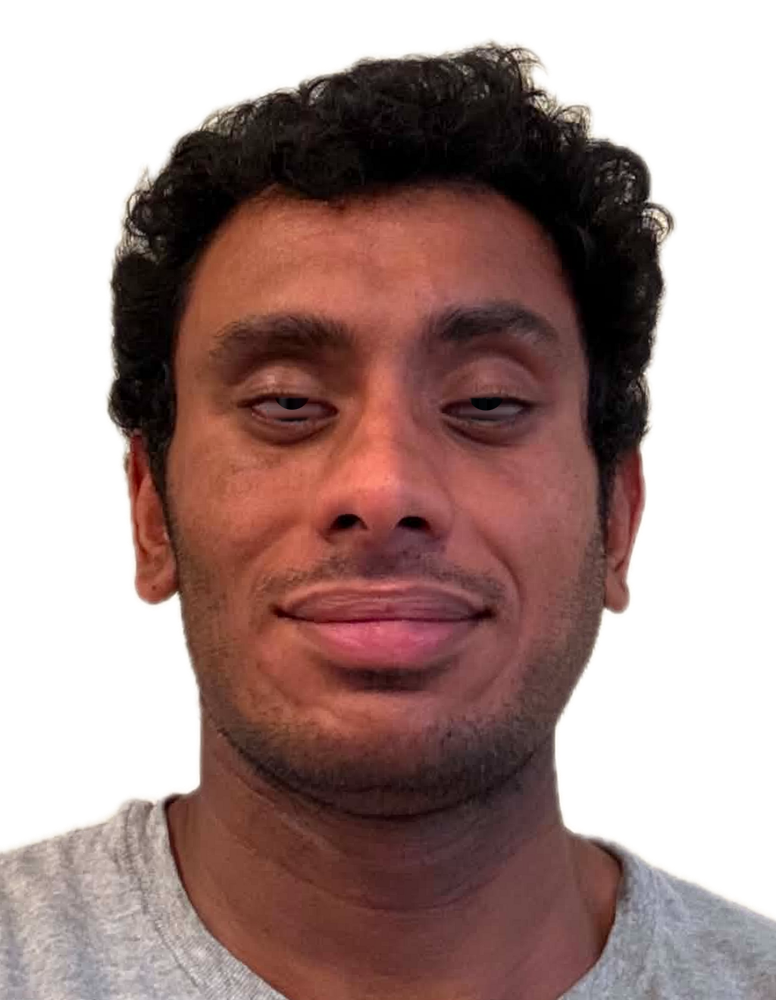
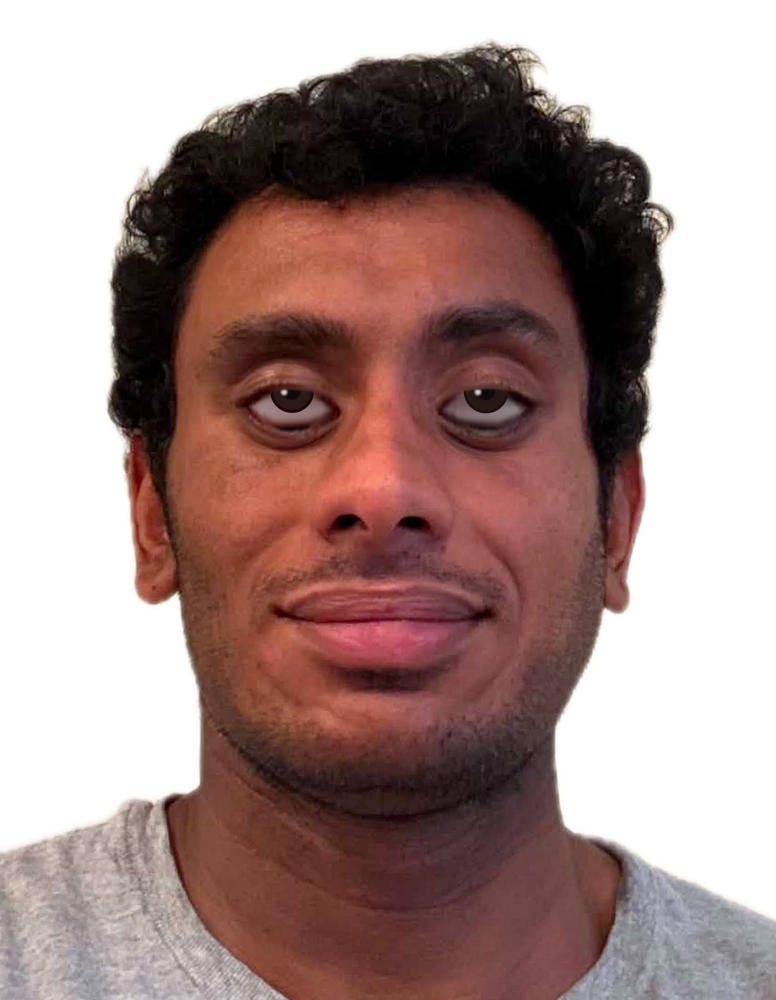
Looking-up pose: open the eyes wider instead of just shifting the irises
The old adit5 slid the irises under heavy lids and read as sleepy. The eyes
are now stretched open, the whites lifted, and a round brown iris with a
catch-light is redrawn high in the bigger opening.

Changed region(s): [[0.3093, 0.341, 0.4639, 0.465], [0.5567, 0.372, 0.6804, 0.465]]

diff --git a/scripts/make_lookup.py b/scripts/make_lookup.py
@@ -2,11 +2,12 @@
 """
 Synthesise the "looking up" pose (adit5) from the registered adit1 cut-out.
 
-No photo of this pose exists, so the irises are moved up inside each eye:
-  1. eye opening = Vision eye contour (scripts/eye_regions.swift)
-  2. the iris is painted out, row by row, with the sclera colour either side
-  3. a round iris is redrawn higher up and clipped to the eye opening, so the
-     upper lid hides its top and white shows underneath
+No photo of this pose exists, so it is built from adit1:
+  1. the iris is painted out of each eye with the white either side of it
+  2. each eye is opened wider with a smooth local stretch (mostly vertical),
+     which also lifts the brow a touch — wide-eyed rather than sleepy
+  3. a round iris is redrawn high in the enlarged opening, so the upper lid
+     tucks over its top and white shows underneath, plus a catch-light
 
 Because adit5 is derived from assets/adit1-cut.png it shares adit1's eye
 registration, so swapping between them is seamless.
@@ -22,14 +23,21 @@ import subprocess
 
 import numpy as np
 from PIL import Image, ImageDraw, ImageFilter
+from scipy import ndimage
 
 ROOT = pathlib.Path(__file__).resolve().parent.parent
 SRC = ROOT / "assets" / "adit1-cut.png"
 OUT = ROOT / "assets" / "adit5-cut"
 
-LIFT = 0.80      # how far the iris moves up, as a fraction of the iris radius
-IRIS_R = 0.22    # iris radius as a fraction of the eye width
-SS = 4           # supersampling for smooth masks
+OPEN_Y = 2.05        # how much wider the eye opens vertically
+OPEN_X = 1.20        # ...and horizontally
+REACH_X = 0.85       # stretch falloff, × eye width
+REACH_Y = 2.6        # stretch falloff, × eye height
+IRIS_R = 0.22        # original iris radius, × eye width
+IRIS_SCALE = 1.18    # redrawn iris size vs original
+IRIS_BOTTOM = 0.70   # iris bottom sits this far down the new opening (0 top, 1 bottom)
+WHITEN = 0.35        # how far to lift the whites toward a clean off-white
+SS = 4               # supersampling for smooth masks
 
 
 def landmarks() -> dict:
@@ -41,75 +49,125 @@ def landmarks() -> dict:
 
 
 def polygon_mask(shape, poly, grow=1.0, feather=0.8) -> np.ndarray:
-    """Soft mask (0..1) of a polygon scaled by `grow` about its centroid."""
     h, w = shape
     p = np.asarray(poly, float)
     c = p.mean(axis=0)
     p = c + (p - c) * grow
     img = Image.new("L", (w * SS, h * SS), 0)
     ImageDraw.Draw(img).polygon([tuple(q * SS) for q in p], fill=255)
-    img = img.resize((w, h), Image.LANCZOS).filter(ImageFilter.GaussianBlur(feather))
+    img = img.resize((w, h), Image.LANCZOS)
+    if feather:
+        img = img.filter(ImageFilter.GaussianBlur(feather))
     return np.asarray(img, float) / 255.0
 
 
-def disc_mask(shape, cx, cy, r, soft=1.2) -> np.ndarray:
-    h, w = shape
-    yy, xx = np.mgrid[0:h, 0:w]
-    d = np.hypot(xx - cx, yy - cy)
-    return np.clip((r - d) / soft + 0.5, 0, 1)
-
-
-def lift_eye(rgb: np.ndarray, contour, pupil) -> np.ndarray:
+def paint_out_iris(rgb, opening, px, r) -> np.ndarray:
+    """Replace the iris with the colour either side of it, row by row."""
     h, w, _ = rgb.shape
-    poly = np.asarray(contour, float)
-    px, py = pupil
-    eye_w = poly[:, 0].max() - poly[:, 0].min()
-    r = IRIS_R * eye_w
-    d = LIFT * r
-
-    m_fill = polygon_mask((h, w), contour, grow=1.18, feather=1.2)   # area we may repaint
-    m_clip = polygon_mask((h, w), contour, grow=0.93, feather=0.8)  # visible opening
-    x0, x1 = int(poly[:, 0].min()) - 3, int(poly[:, 0].max()) + 4
-    y0, y1 = int(poly[:, 1].min()) - 3, int(poly[:, 1].max()) + 4
-    xs = np.arange(w)
-
-    # 1. paint the iris out with the colour either side of it, row by row
+    ys = np.where(opening.max(axis=1) > 0.05)[0]
     filled = rgb.copy()
     reach = r * 1.3
-    for y in range(y0, y1):
+    for y in range(ys.min() - 3, ys.max() + 4):
         lx, rx = int(round(px - reach)), int(round(px + reach))
         lc = rgb[y, max(lx - 2, 0):lx + 1].mean(axis=0)
         rc = rgb[y, rx:rx + 3].mean(axis=0)
         span = np.arange(lx, rx + 1)
         t = (span - lx) / max(rx - lx, 1)
         filled[y, span] = lc[None, :] * (1 - t[:, None]) + rc[None, :] * t[:, None]
+    xs = np.arange(w)
     band = np.clip((r * 1.25 - np.abs(xs - px)) / 2.0 + 0.5, 0, 1)[None, :]
-    paint = (band * m_fill)[..., None]
-    clean = rgb * (1 - paint) + filled * paint
+    paint = (band * opening)[..., None]
+    return rgb * (1 - paint) + filled * paint
 
-    # 2. redraw a round iris higher up, sampling the original visible band
-    open_rows = m_clip > 0.5
-    moved = clean.copy()
-    for x in range(x0, x1):
-        rows = np.where(open_rows[:, x])[0]
-        if rows.size < 3:
-            continue
-        top, bot = rows.min() + 1, rows.max() - 1
-        for y in range(y0 - int(d) - 2, y1):
-            moved[y, x] = rgb[int(round(np.clip(y + d, top, bot))), x]
 
-    iris = (disc_mask((h, w), px, py - d, r) * m_clip)[..., None]
-    return clean * (1 - iris) + moved * iris
+def iris_profile(rgb, opening, px, py, r, bins=24) -> np.ndarray:
+    """Mean colour of the visible iris as a function of distance from the pupil."""
+    h, w, _ = rgb.shape
+    yy, xx = np.mgrid[0:h, 0:w]
+    rho = np.hypot(xx - px, yy - py) / r
+    sel = (opening > 0.6) & (rho < 1.0)
+    idx = np.minimum((rho[sel] * bins).astype(int), bins - 1)
+    prof = np.full((bins, 3), np.nan)
+    for b in range(bins):
+        m = idx == b
+        if m.any():
+            prof[b] = rgb[sel][m].mean(axis=0)
+    good = ~np.isnan(prof[:, 0])
+    for c in range(3):
+        prof[:, c] = np.interp(np.arange(bins), np.where(good)[0], prof[good, c])
+    return prof
 
 
 def main() -> None:
     lm = landmarks()
     im = Image.open(SRC).convert("RGBA")
     arr = np.asarray(im).astype(float)
-    rgb, alpha = arr[..., :3], arr[..., 3:]
+    h, w, _ = arr.shape
+    rgb, alpha = arr[..., :3].copy(), arr[..., 3]
+    yy, xx = np.mgrid[0:h, 0:w].astype(float)
 
+    eyes = []
     for side in ("left", "right"):
-        rgb = lift_eye(rgb, lm[f"{side}Eye"], lm[f"{side}Pupil"][0])
+        poly = np.asarray(lm[f"{side}Eye"], float)
+        px, py = lm[f"{side}Pupil"][0]
+        eye_w = poly[:, 0].max() - poly[:, 0].min()
+        eye_h = poly[:, 1].max() - poly[:, 1].min()
+        r = IRIS_R * eye_w
+        cx, cy = poly[:, 0].mean(), poly[:, 1].mean()
+        opening = polygon_mask((h, w), poly, grow=0.95, feather=0.8)
+        profile = iris_profile(rgb, opening, px, py, r)
+        # 1. iris out
+        rgb = paint_out_iris(rgb, polygon_mask((h, w), poly, grow=1.18, feather=1.2), px, r)
+        # whites: lift toward a clean off-white so the bigger eye reads as awake
+        white = np.array([228.0, 222.0, 218.0])
+        lift = (polygon_mask((h, w), poly, grow=0.85, feather=1.5) * WHITEN)[..., None]
+        rgb = rgb * (1 - lift) + white * lift
+        eyes.append(dict(poly=poly, px=px, py=py, r=r, cx=cx, cy=cy,
+                         rx=REACH_X * eye_w, ry=REACH_Y * eye_h, profile=profile))
+
+    # 2. open the eyes: smooth local stretch (backward map), one region per eye
+    src_x, src_y = xx.copy(), yy.copy()
+    for e in eyes:
+        dx, dy = xx - e["cx"], yy - e["cy"]
+        rho2 = (dx / e["rx"]) ** 2 + (dy / e["ry"]) ** 2
+        wgt = np.where(rho2 < 1, (1 - rho2) ** 2, 0.0)
+        src_x = np.where(wgt > 0, e["cx"] + dx / (1 + (OPEN_X - 1) * wgt), src_x)
+        src_y = np.where(wgt > 0, e["cy"] + dy / (1 + (OPEN_Y - 1) * wgt), src_y)
+
+    def warp(channel):
+        return ndimage.map_coordinates(channel, [src_y, src_x], order=3, mode="nearest")
+
+    rgb = np.dstack([warp(rgb[..., c]) for c in range(3)])
+    alpha = warp(alpha)
+
+    # 3. redraw a round iris high in each enlarged opening
+    for e in eyes:
+        opening = polygon_mask((h, w), e["poly"], grow=0.93, feather=0.0)
+        opening = ndimage.map_coordinates(opening, [src_y, src_x], order=1)
+        opening = ndimage.gaussian_filter(opening, 0.8)
+        rows = np.where(opening[:, int(e["px"])] > 0.5)[0]
+        top, bot = rows.min(), rows.max()
+        R = e["r"] * IRIS_SCALE
+        icx = e["px"]
+        icy = top + IRIS_BOTTOM * (bot - top) - R
+        rho = np.hypot(xx - icx, yy - icy) / R
+        prof = e["profile"]
+        bins = len(prof)
+        col = prof[np.minimum((rho * bins).astype(int), bins - 1)]
+        # a little structure: warm brown iris ring, darker pupil and limbal rim
+        ring = np.clip((rho - 0.38) / 0.08, 0, 1) * np.clip((0.92 - rho) / 0.08, 0, 1)
+        col = col * (1 - 0.40 * ring[..., None]) + np.array([74.0, 48.0, 34.0]) * 0.40 * ring[..., None]
+        pupil = np.clip((0.40 - rho) / 0.06, 0, 1)
+        col = col * (1 - 0.55 * pupil[..., None]) + np.array([10.0, 9.0, 9.0]) * 0.55 * pupil[..., None]
+        limbus = np.clip((rho - 0.86) / 0.1, 0, 1)
+        col = col * (1 - 0.35 * limbus[..., None])
+        disc = np.clip((1 - rho) * R / 1.1 + 0.5, 0, 1)
+        # catch-light so the eye reads as alive
+        hl = np.hypot(xx - (icx - 0.36 * R), yy - (icy + 0.05 * R)) / (0.15 * R)
+        hl_a = np.clip(1.4 - hl, 0, 1) * 0.85
+        col = col * (1 - hl_a[..., None]) + np.array([245.0, 243.0, 240.0]) * hl_a[..., None]
+        m = (disc * opening)[..., None]
+        rgb = rgb * (1 - m) + col * m
 
     out = Image.fromarray(np.dstack([rgb, alpha]).clip(0, 255).astype(np.uint8), "RGBA")
     out.save(OUT.with_suffix(".png"), optimize=True)
